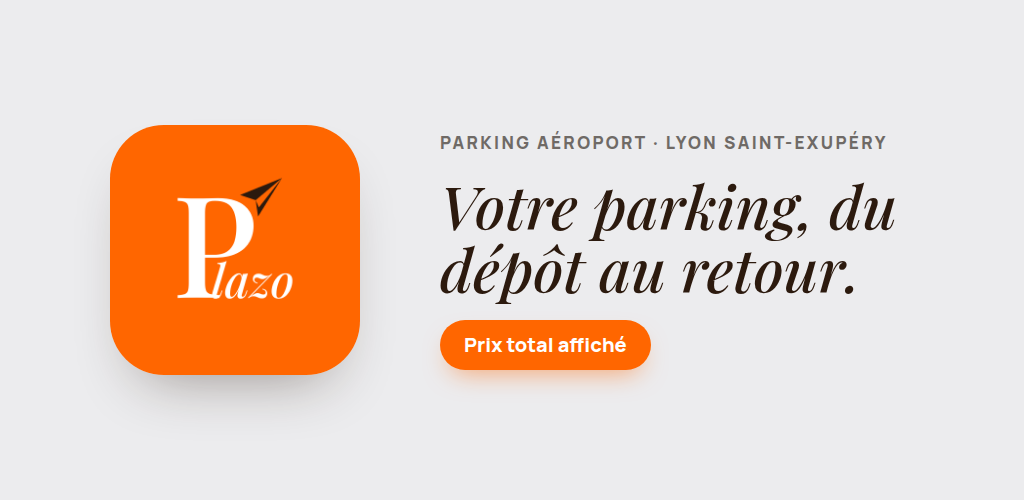
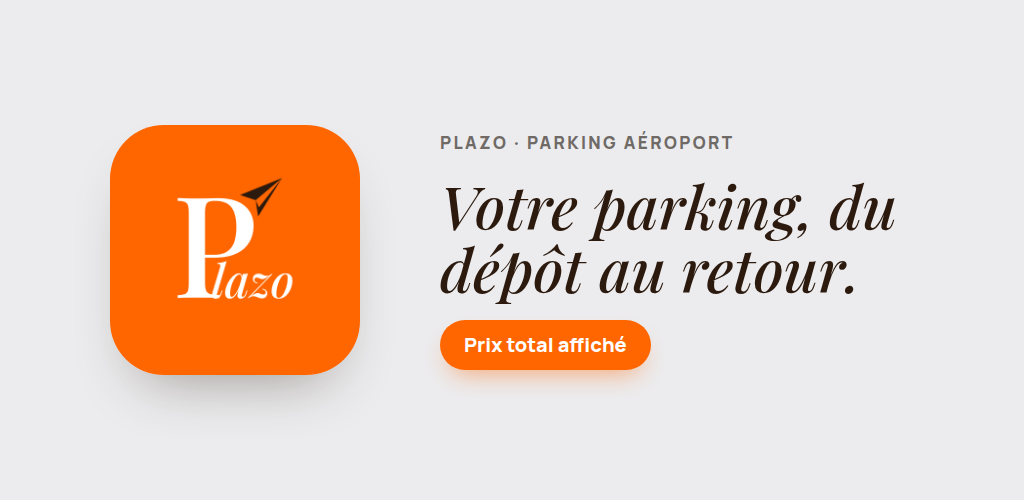
Images commerciales (style A) et fiches relues contre le code
- 42 images commerciales dans brand/stores/marketing/A (Plazo et Plazo Pro, App Store 6,9" et 6,3", Google Play).
- Relecture indépendante : l'écran 02 du planning de Plazo Pro ne promet plus l'état des vols (il ne montre que le
  vol retour), l'écran 05 dit que les créneaux suivent les vols ou l'heure saisie, les notes de version posent la
  condition de « Votre navette est là » (suivi « Équipe et clients »), la description de Plazo Pro et sa note
  aussi ; l'image de présentation B de Plazo ne nomme plus Lyon (« Plazo · parking aéroport »).
- CLAUDE.md et fiches-stores.md 5.1 décrivent les images commerciales.

Claude-Session: https://claude.ai/code/session_012FzNPuRPbrourFcqtQaMsX

Changed region(s): [[0.4375, 0.27, 0.875, 0.3]]

diff --git a/CLAUDE.md b/CLAUDE.md
@@ -733,7 +733,12 @@ Le nom du produit doit rester dans UN seul fichier de configuration (il peut enc
   `capture.mjs`, 11/10/2026, et dans `app-store-6.3/` en 1206 × 2622 pour l'iPhone 6,3", `DEVICE=iphone63`, 13/10/2026) prises sur les vraies apps construites pour le web par `brand/stores/tools/screenshots/run.sh`
   (base neuve `…_shots` avec les données de démo, API à 14:05 au parking par `fake-clock.cjs`, journée préparée par
   `scenario.mjs` et `stage.sql`, Chromium piloté par `capture.mjs`), ou par le workflow GitHub `store-screenshots.yml`
-  (artefact) ; **données fictives du parking de test** (12/10/2026, « crée des données factices sur le parking de test », pour filmer
+  (artefact) ; **images commerciales** (13/10/2026, « il faut plutôt des images d'illustration commerciale », choix A « aplat de
+  marque avec le texte qui ressort mieux ») dans `brand/stores/marketing/A/{plazo,plazo-pro}/{appstore69,appstore63,play}/` : chaque
+  capture 6,9" dans un téléphone dessiné sous un titre Manrope 800 blanc sur l'orange (Archivo Narrow vert foncé sur le citron
+  pour Plazo Pro) et une ligne dans la couleur la plus foncée, par `brand/stores/tools/marketing.mjs` (titres repris des fiches,
+  relus contre le code, deux lignes au plus, signalé sinon) ; **fiches sans Lyon** (13/10/2026, « l'app n'est pas réservée
+  qu'à l'aéroport de Lyon ») : aucun aéroport nommé dans les textes des stores, aucun autre promis ; **données fictives du parking de test** (12/10/2026, « crée des données factices sur le parking de test », pour filmer
   les vidéos du service de premier plan) : workflow `test-parking-data.yml` (`fill` / `clear`, à la main) et
   `.github/scripts/test_parking_data.py`, qui se connecte à l'API de production avec les secrets GitHub `PLAZO_TEST_EMAIL` /
   `PLAZO_TEST_PASSWORD` (un membre Accueil de « Plazo (tests) », jamais un gérant, qui pourrait réinitialiser le mot de passe du
